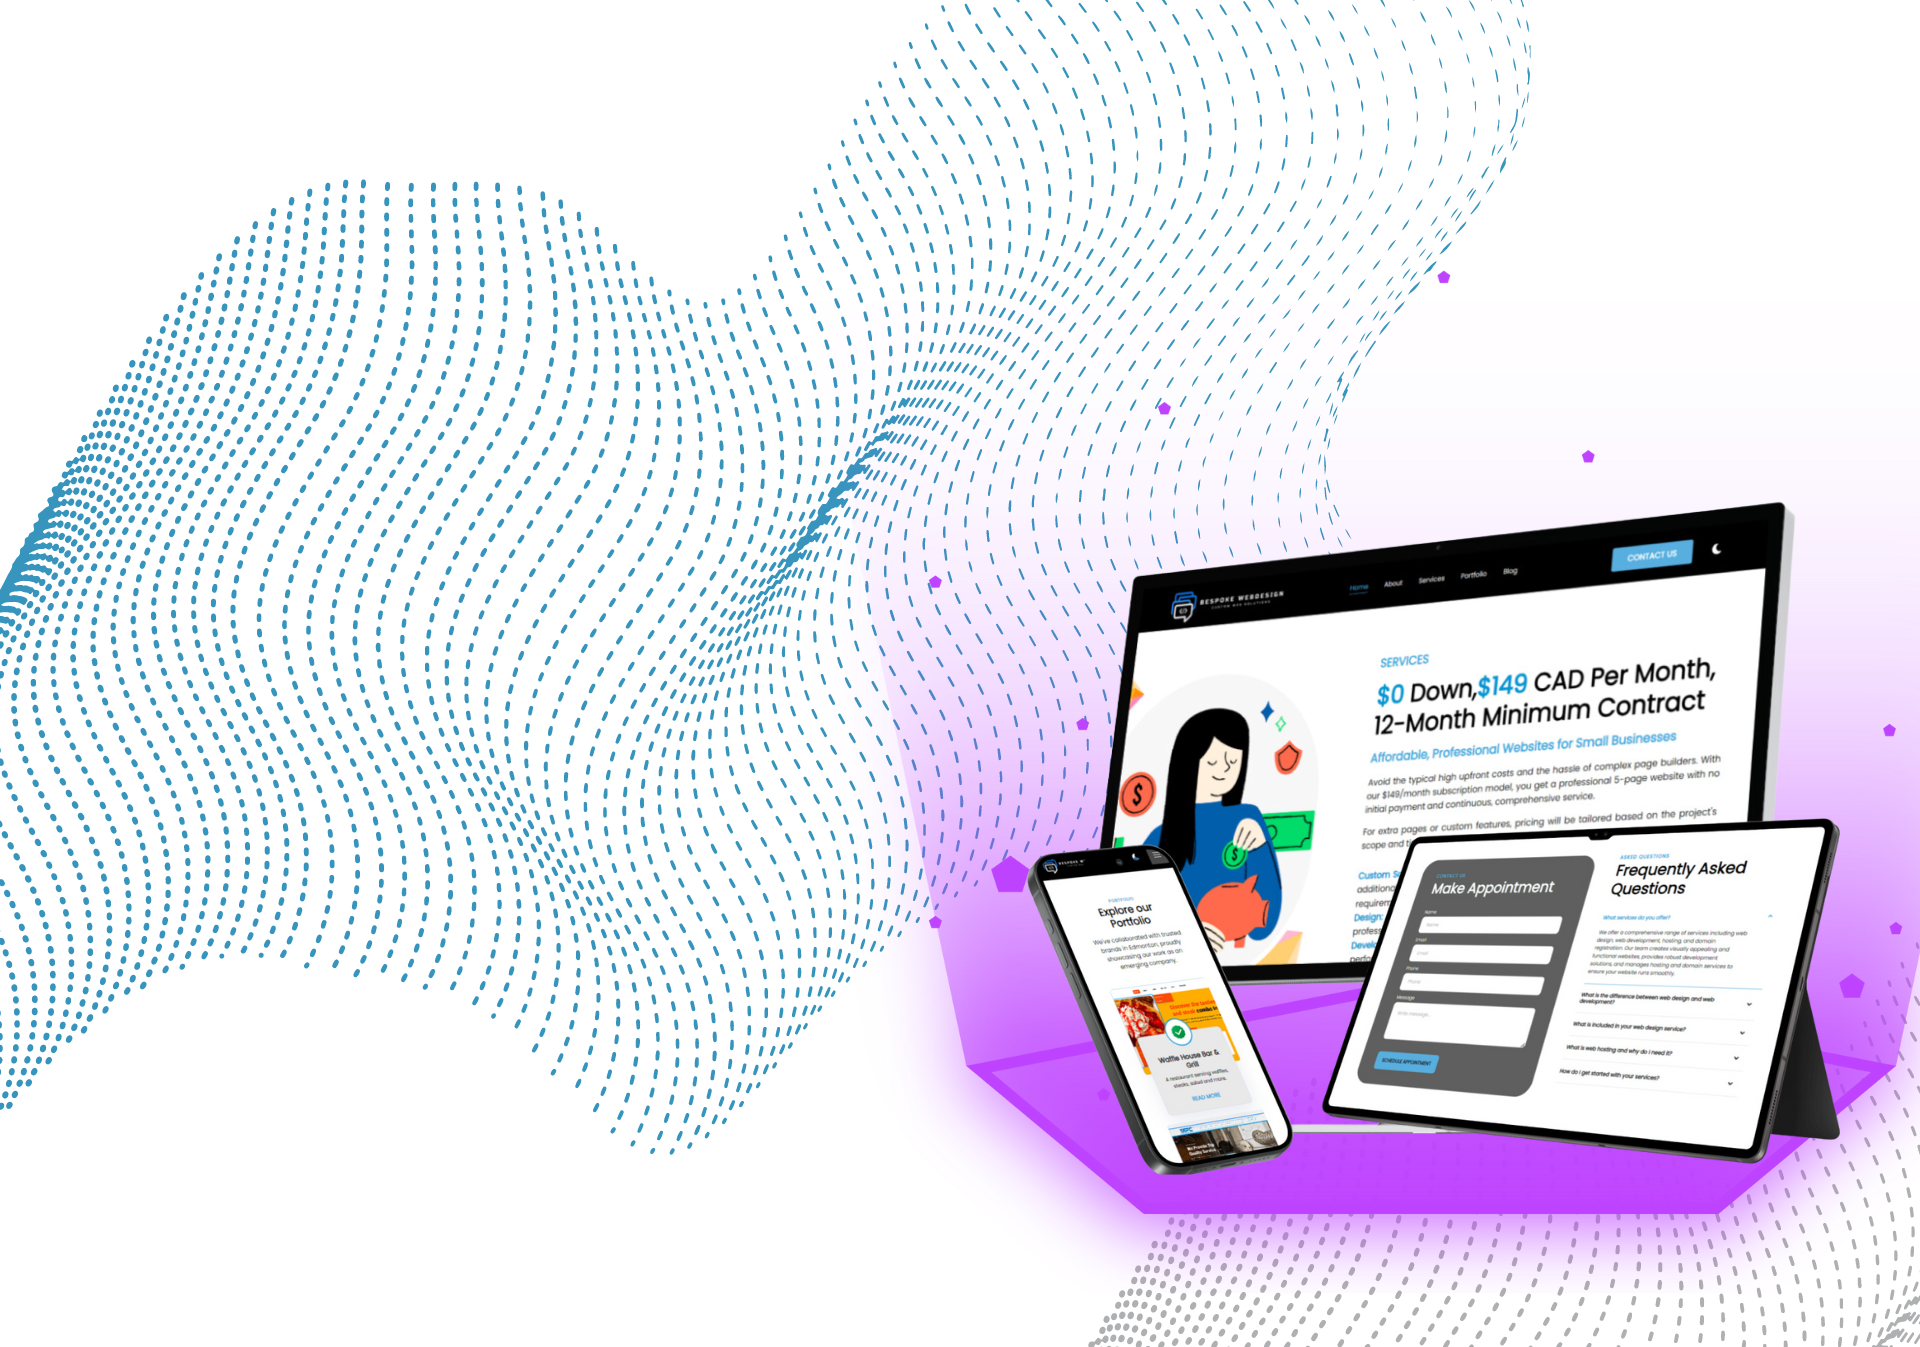
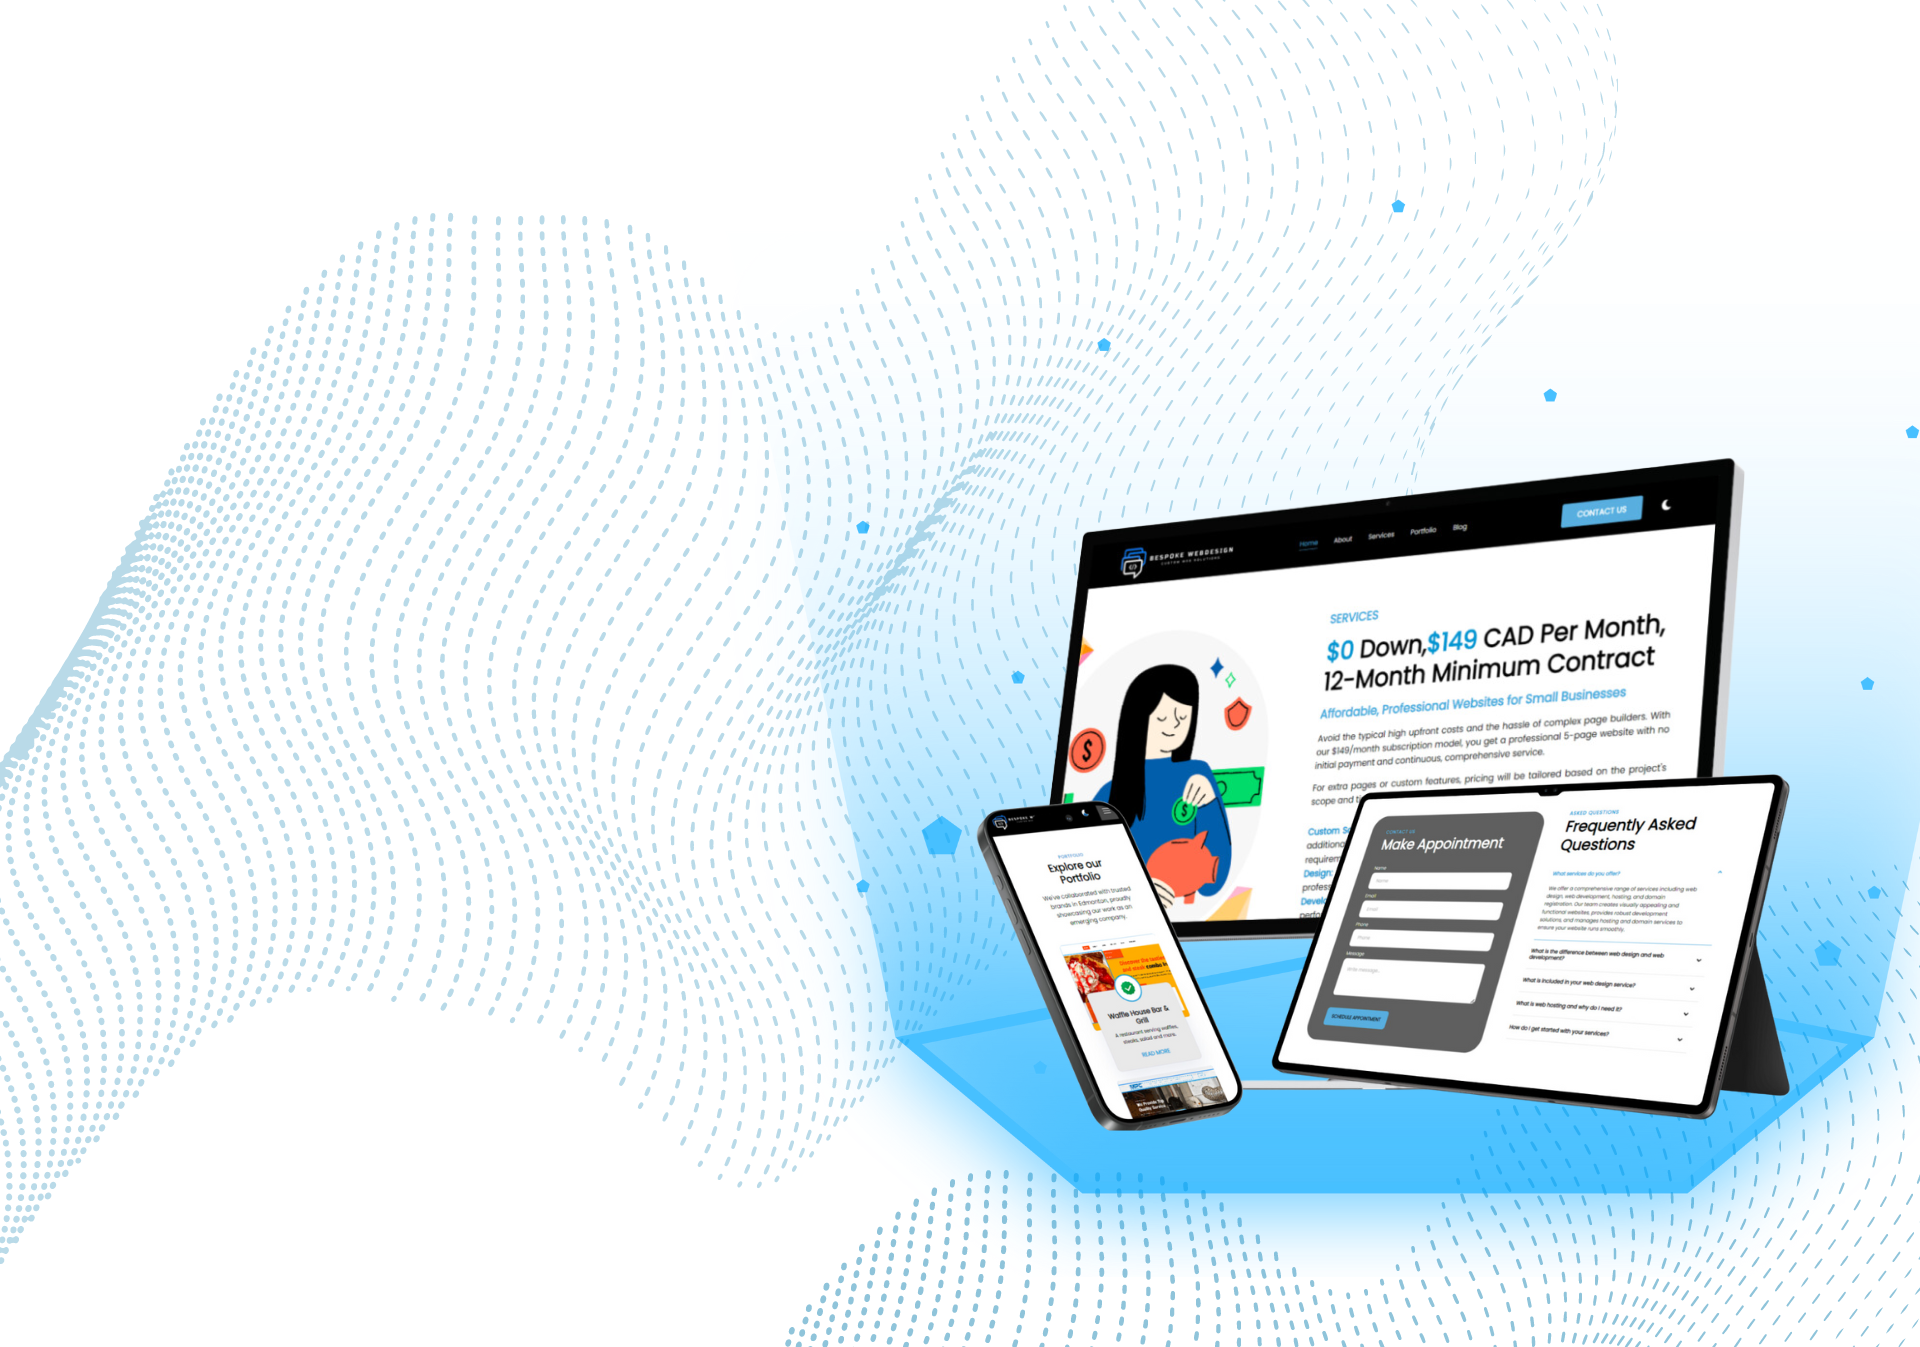
updates 08192024

diff --git a/src/index.html b/src/index.html
@@ -64,7 +64,7 @@ eleventyNavigation:
     
     <!-- Background Image -->
     <picture class="cs-background">
-        <source media="(max-width: 600px)" srcset="/assets/images/landingmobile2.png">
+        <source media="(max-width: 600px)" srcset="/assets/images/landing.png">
         <source media="(min-width: 601px)" srcset="/assets/images/landing.png">
         <img loading="lazy" decoding="async" src="/assets/images/landing.png" alt="" width="1920" height="1200" aria-hidden="true">
     </picture>
@@ -155,7 +155,7 @@ eleventyNavigation:
     <div class="cs-container">
         <div class="cs-content">
             <span class="cs-topper">Our Services</span>
-            <h1 class="cs-title">WHAT WE DO</h1>
+            <h1 class="cs-title">WHAT WE DO</h1><br><br>
             <p class="cs-text">
                 We specialize in web design and development for small businesses throughout Canada. Our meticulously hand-crafted code ensures top performance, enhancing your online presence and increasing your revenue. 
                 <a href="/about">LEARN MORE</a>            </p>
@@ -404,7 +404,7 @@ eleventyNavigation:
         <div class="cs-content">
             
             <span class="cs-topper">Why Choose Us</span>
-            <h2 class="cs-title">Why Your Business Needs a Professional Website</h2>
+            <h2 class="cs-title">Why Your Business Needs a Professional Website</h2><br><br>
             <p class="cs-text">
                 A well-designed 5-page website builds trust and
 establishes your business as credible and reliable,
@@ -641,7 +641,7 @@ adapting as your business evolves.
         <div class="cs-content">
             <span class="cs-topper">Process</span>
             <h2 class="cs-title">Our Website Development Process
-            </h2>
+            </h2> <br><br>
             <p class="cs-text">
                 Website development is vital for creating a functional and engaging online presence that meets business goals. It helps improve visibility, user experience, and conversion rates.            </p>
         </div>
@@ -847,7 +847,7 @@ adapting as your business evolves.
     <div class="cs-container">
         <div class="cs-content">
             <span class="cs-topper">Pricing</span>
-            <h2 class="cs-title">It’s Easy to Get Started</h2>
+            <h2 class="cs-title">It’s Easy to Get Started</h2><br><br>
             <p class="cs-text">
                 At Bespoke web design, we create professional sites hassle-free, so you can focus on what matters most—your business!
             </p>
@@ -950,7 +950,11 @@ adapting as your business evolves.
                     <li class="cs-li">
                         <img class="cs-li-img" aria-hidden="true" loading="lazy" decoding="async" src="https://img.icons8.com/?size=100&id=sz8cPVwzLrMP&format=png&color=000000" alt="code stitch icon" width="20" height="20">
                         <span>Custom CMS Blog -Starts at  <b> $300 </b> </span>
-
+                        
+                    </li>
+                    <li class="cs-li">
+                        <span><i>Highly Recommended for SEO</i></span>
+                        
                     </li>
                     <li class="cs-li">
                         <img class="cs-li-img" aria-hidden="true" loading="lazy" decoding="async" src="https://img.icons8.com/?size=100&id=sz8cPVwzLrMP&format=png&color=000000" alt="code stitch icon" width="20" height="20">

diff --git a/src/content/pages/services.html b/src/content/pages/services.html
@@ -77,9 +77,9 @@ eleventyNavigation:
                 additional pages or custom features based on your project's unique scope and
                 requirements.<br><br>
                 <span class="bluetext"><b>Design:</b></span> Custom Figma designs that align with industry standards, delivering a
-                professional, polished look for your business.<br>
+                professional, polished look for your business.<br><br>
                 <span class="bluetext"><b>Development</b></span> Hand-coded websites using Visual Studio Code, ensuring optimal
-                performance and reliability.<br>
+                performance and reliability.<br><br>
                 <span class="bluetext"><b>Domain & Hosting</b></span> Full management of your domain and hosting needs, so you never
                 have to worry about the technical details.<br><br>
 
@@ -88,7 +88,7 @@ eleventyNavigation:
 
                 As a business owner, your priority is to create value and drive sales. Let us manage the
                 technical complexities, so you can focus on what matters most – your business!
-                            </p> <br><br><br>
+                            </p> <br><br>
             
             <h3 style="float: right;"><img class="cs-icon" src="https://img.icons8.com/?size=100&id=D9RtvkuOe31p&format=png&color=6EACDA" alt="icon" width="10" height="10" loading="lazy" decoding="async" style="float: left;" >Hosting Fees Included</h3>
             
@@ -258,6 +258,10 @@ eleventyNavigation:
                         <img class="cs-li-img" aria-hidden="true" loading="lazy" decoding="async" src="https://img.icons8.com/?size=100&id=sz8cPVwzLrMP&format=png&color=000000" alt="code stitch icon" width="20" height="20">
                         <span>Custom CMS Blog -Starts at  <b> $300 </b> </span>
 
+                    </li>
+                    <li class="cs-li">
+                        <span><i>Highly Recommended for SEO</i></span>
+                        
                     </li>
                     <li class="cs-li">
                         <img class="cs-li-img" aria-hidden="true" loading="lazy" decoding="async" src="https://img.icons8.com/?size=100&id=sz8cPVwzLrMP&format=png&color=000000" alt="code stitch icon" width="20" height="20">

diff --git a/src/_includes/components/footer.html b/src/_includes/components/footer.html
@@ -18,6 +18,9 @@
                 <span class="cs-header">Sitemap</span>
             </li>
             <li class="cs-nav-li">
+                <a class="cs-nav-link" href="/index">Home</a>
+            </li>
+            <li class="cs-nav-li">
                 <a class="cs-nav-link" href="/about">About</a>
             </li>
             <li class="cs-nav-li">
@@ -38,13 +41,16 @@
                 <span class="cs-header">Services</span>
             </li>
             <li class="cs-nav-li">
-                <a class="cs-nav-link" href="">Web and  Mobile App Development</a>
+                <a class="cs-nav-link" href="/services">Web Design and Development</a>
             </li>
             <li class="cs-nav-li">
-                <a class="cs-nav-link" href="">Hosting and Domain Management</a>
+                <a class="cs-nav-link" href="/services">Branding and Identity Package</a>
             </li>
             <li class="cs-nav-li">
-                <a class="cs-nav-link" href="">Maintenance, Updates and Support</a>
+                <a class="cs-nav-link" href="/services">Hosting and Domain Management</a>
+            </li>
+            <li class="cs-nav-li">
+                <a class="cs-nav-link" href="/services">Maintenance, Updates and Support</a>
             </li>
          
         </ul>
@@ -106,7 +112,7 @@
    
     
     <script src="script.js"></script></span>
-        <span class="cs-copyright">© Copyright 2024 - <a class="cs-copyright-link" href="">Bespoke Web Design</a></span>
+        <span class="cs-copyright">© Copyright 2024 - <a class="cs-copyright-link" href="">Bespoke Web Design Edmonton</a></span>
     </div>
 
 

diff --git a/src/content/pages/about.html b/src/content/pages/about.html
@@ -62,7 +62,7 @@ eleventyNavigation:
         <!-- Right Content Section-->
         <div class="cs-content">
             <span class="cs-topper">About Us</span>
-            <h2 class="cs-title">Bespoke Web Design</h2>
+            <h2 class="cs-title">Bespoke Web Design</h2> <br> <br>
             <p class="cs-text">
                 Based in Edmonton, AB, Canada, our team is committed to helping local small
 businesses succeed with great web solutions. As a local entrepreneur, I’ve conducted
@@ -83,7 +83,9 @@ commitment to delivering real value and a strong online presence for your busine
             
             <div class="cs-quote">
                 <span class="cs-quote-text">
-                    "Our mission is to create affordable websites that help small businesses achieve their goals."             </span>
+                    "Our mission is to create custom,
+                    affordable websites that empower small businesses to build their brand,
+                    achieve their goals, and form lasting partnerships."             </span>
                 <span class="cs-name">Charles Magno</span>
                 <span class="cs-job">Project Lead & Founder</span>
                 <img class="cs-quote-icon" loading="lazy" decoding="async" src="https://img.icons8.com/?size=100&id=38970&format=png&color=000000" alt="gavel" width="136" height="77">

diff --git a/src/assets/css/root.css b/src/assets/css/root.css
@@ -1117,7 +1117,7 @@
   width: 100%;
   max-width: 20ch;
   margin: 0 0 2rem 0;
-  color: var(--bodyTextColorWhite);
+  color: #ffffff;
   position: relative;
 }
 #hero-997 .cs-color {
@@ -1131,7 +1131,7 @@
   width: 100%;
   max-width: 39.375rem;
   margin: 0 0 2rem 0;
-  color: var(--bodyTextColorWhite);
+  color: #fdfdfd;
 }
 #hero-997 .cs-button-box {
   display: flex;
@@ -1240,7 +1240,7 @@
   content: "";
   width: 100%;
   height: 100%;
-  background: linear-gradient(41deg, rgba(26, 26, 26, 0.9) 30%, rgba(26, 26, 26, 0.3) 100%);
+  background: linear-gradient(41deg, rgba(26, 26, 26, 0.263) 30%, rgba(26, 26, 26, 0.401) 100%);
   opacity: 1;
   position: absolute;
   display: block;
@@ -2424,7 +2424,7 @@
     width: 78%;
     /* changes to 305px at desktop */
     max-width: 26.25rem;
-    color: var(--headerColor);
+    color: #fff;
   }
   #cs-footer-309 .cs-nav {
     width: 100%;

diff --git a/src/assets/less/root.less b/src/assets/less/root.less
@@ -1134,7 +1134,7 @@
   width: 100%;
   max-width: 20ch;
   margin: 0 0 2rem 0;
-  color: var(--bodyTextColorWhite);
+  color: #ffffff;
   position: relative;
 }
 #hero-997 .cs-color {
@@ -1148,7 +1148,7 @@
   width: 100%;
   max-width: 39.375rem;
   margin: 0 0 2rem 0;
-  color: var(--bodyTextColorWhite);
+  color: #fdfdfd;
 }
 #hero-997 .cs-button-box {
   display: flex;
@@ -1258,7 +1258,7 @@
   content: "";
   width: 100%;
   height: 100%;
-  background: linear-gradient(41deg, rgba(26, 26, 26, 0.9) 30%, rgba(26, 26, 26, 0.3) 100%);
+  background: linear-gradient(41deg, rgba(26, 26, 26, 0.263) 30%, rgba(26, 26, 26, 0.401) 100%);
   opacity: 1;
   position: absolute;
   display: block;
@@ -2543,7 +2543,7 @@
     width: 78%;
     /* changes to 305px at desktop */
     max-width: 26.25rem;
-    color: var(--headerColor);
+    color: #fff;
   }
   #cs-footer-309 .cs-nav {
     width: 100%;

diff --git a/src/content/pages/typecontact.html b/src/content/pages/typecontact.html
@@ -56,7 +56,7 @@ eleventyNavigation:
     <div class="cs-container">
         <div class="cs-content">
             <span class="cs-topper"> Get Started</span>
-            <h1 class="cs-title">Ready to Upgrade Your Brand?</h1>
+            <h1 class="cs-title">Ready to Upgrade Your Brand?</h1><br><br>
             <p class="cs-text">
                 We value your interest and are here to assist you in the best way possible. To make your experience seamless, we offer multiple ways to get in touch with us. Choose the option that suits you best:
             </p>
